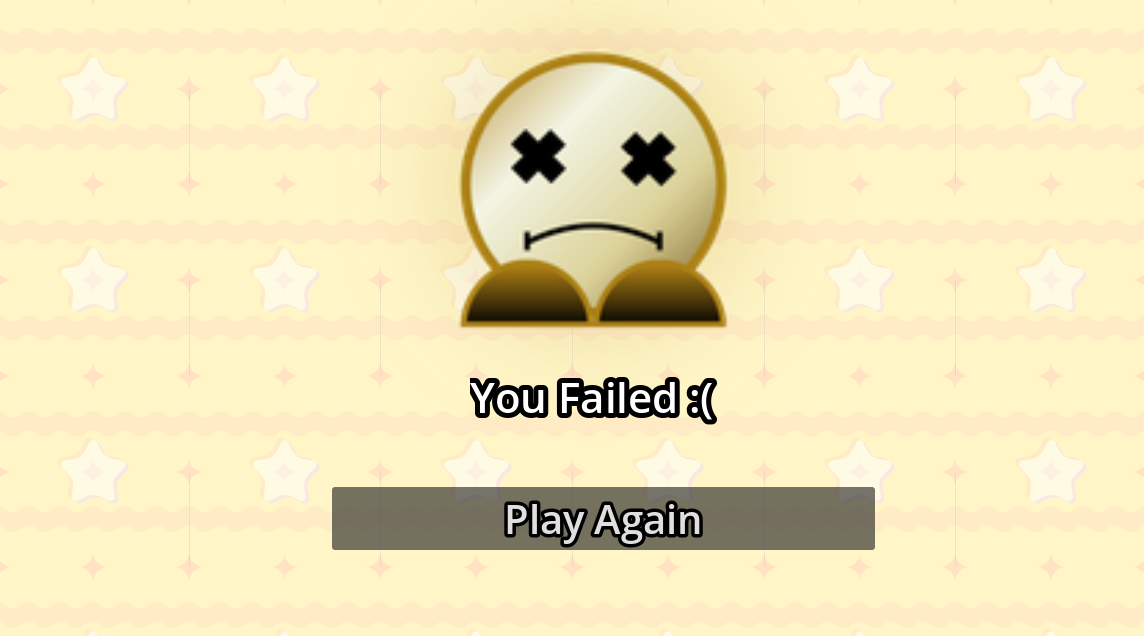
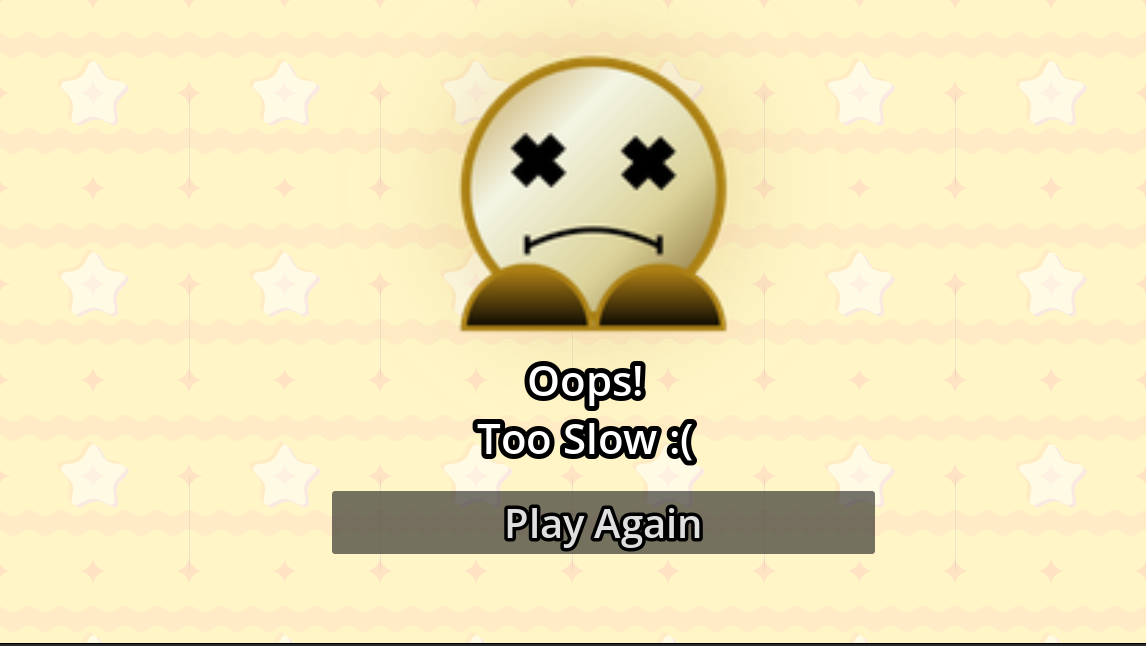
Re-style winner and death screen

diff --git a/README.md b/README.md
@@ -2,6 +2,10 @@
 
 SmileyWare is a collection of fast-paced minigames inspired by the WarioWare style of gameplay. Each challenge is part of one connected game experience where players need to complete the minigames and keep progressing.
 
+## Demo
+
+https://kira-iovenko.github.io/WarioWareGame/
+
 ## Screenshots
 
 ### Title screen
